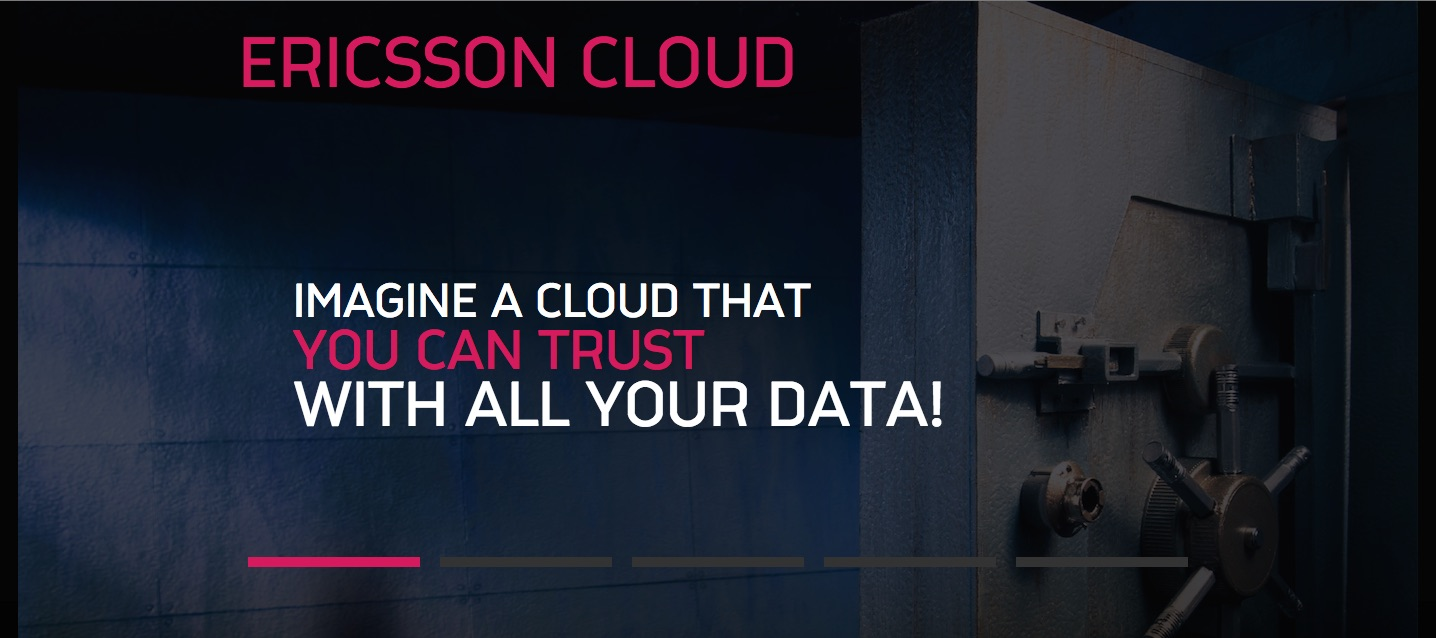
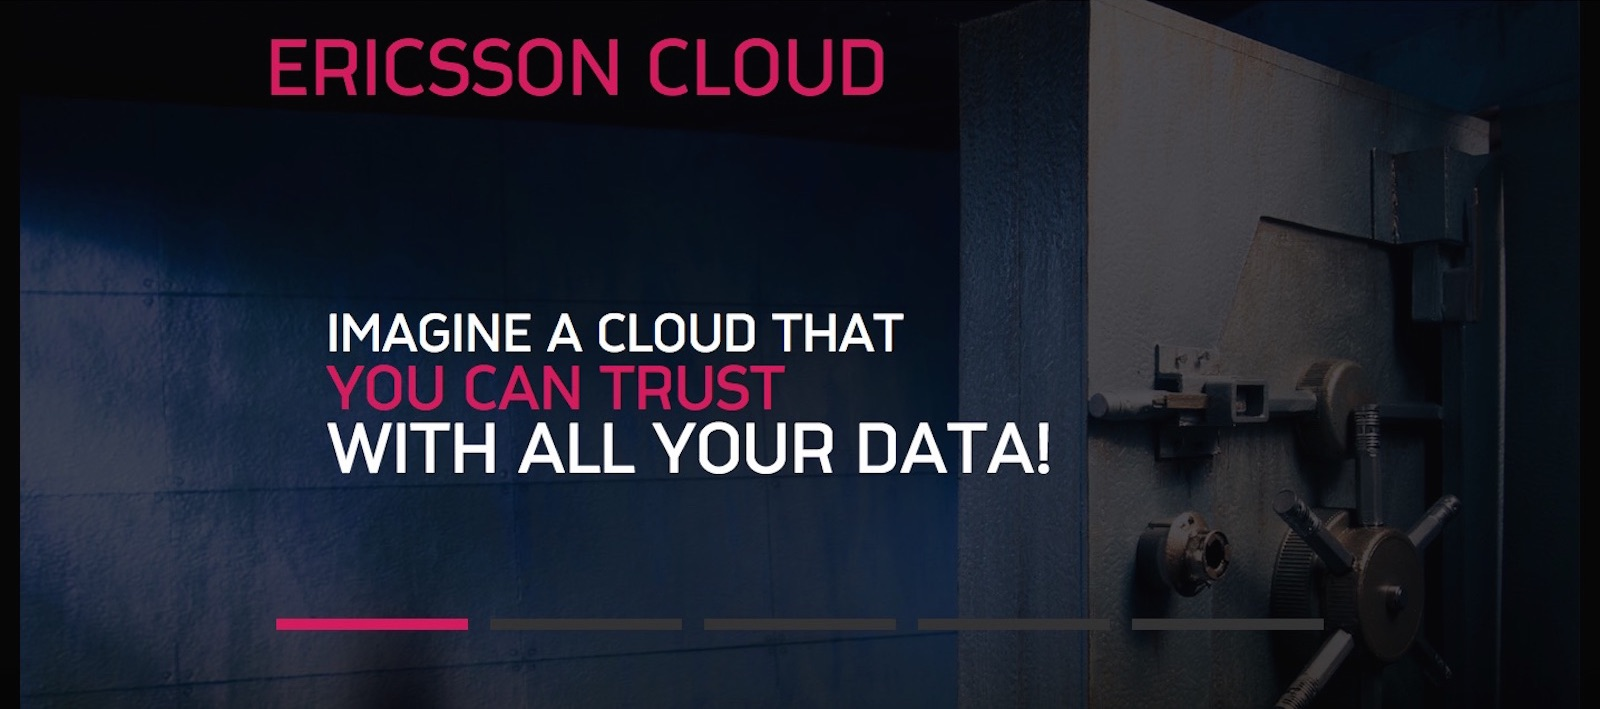
carousel page

diff --git a/carousel.html b/carousel.html
@@ -101,13 +101,16 @@ setInterval('cycleImages()', 7000);
        img {
           top:50px;
           vertical-align: middle;
+          float: center;
           clear: both;
        }
        #cycler{position:relative;
         min-height: 100%; 
-        vertical-align: middle;
       }
        #cycler img{
+          margin: auto;
+          top: 0; left: 0; bottom: 0; right: 0;
+          width:2000px;
           vertical-align: middle;
           position:absolute;
           z-index:1
